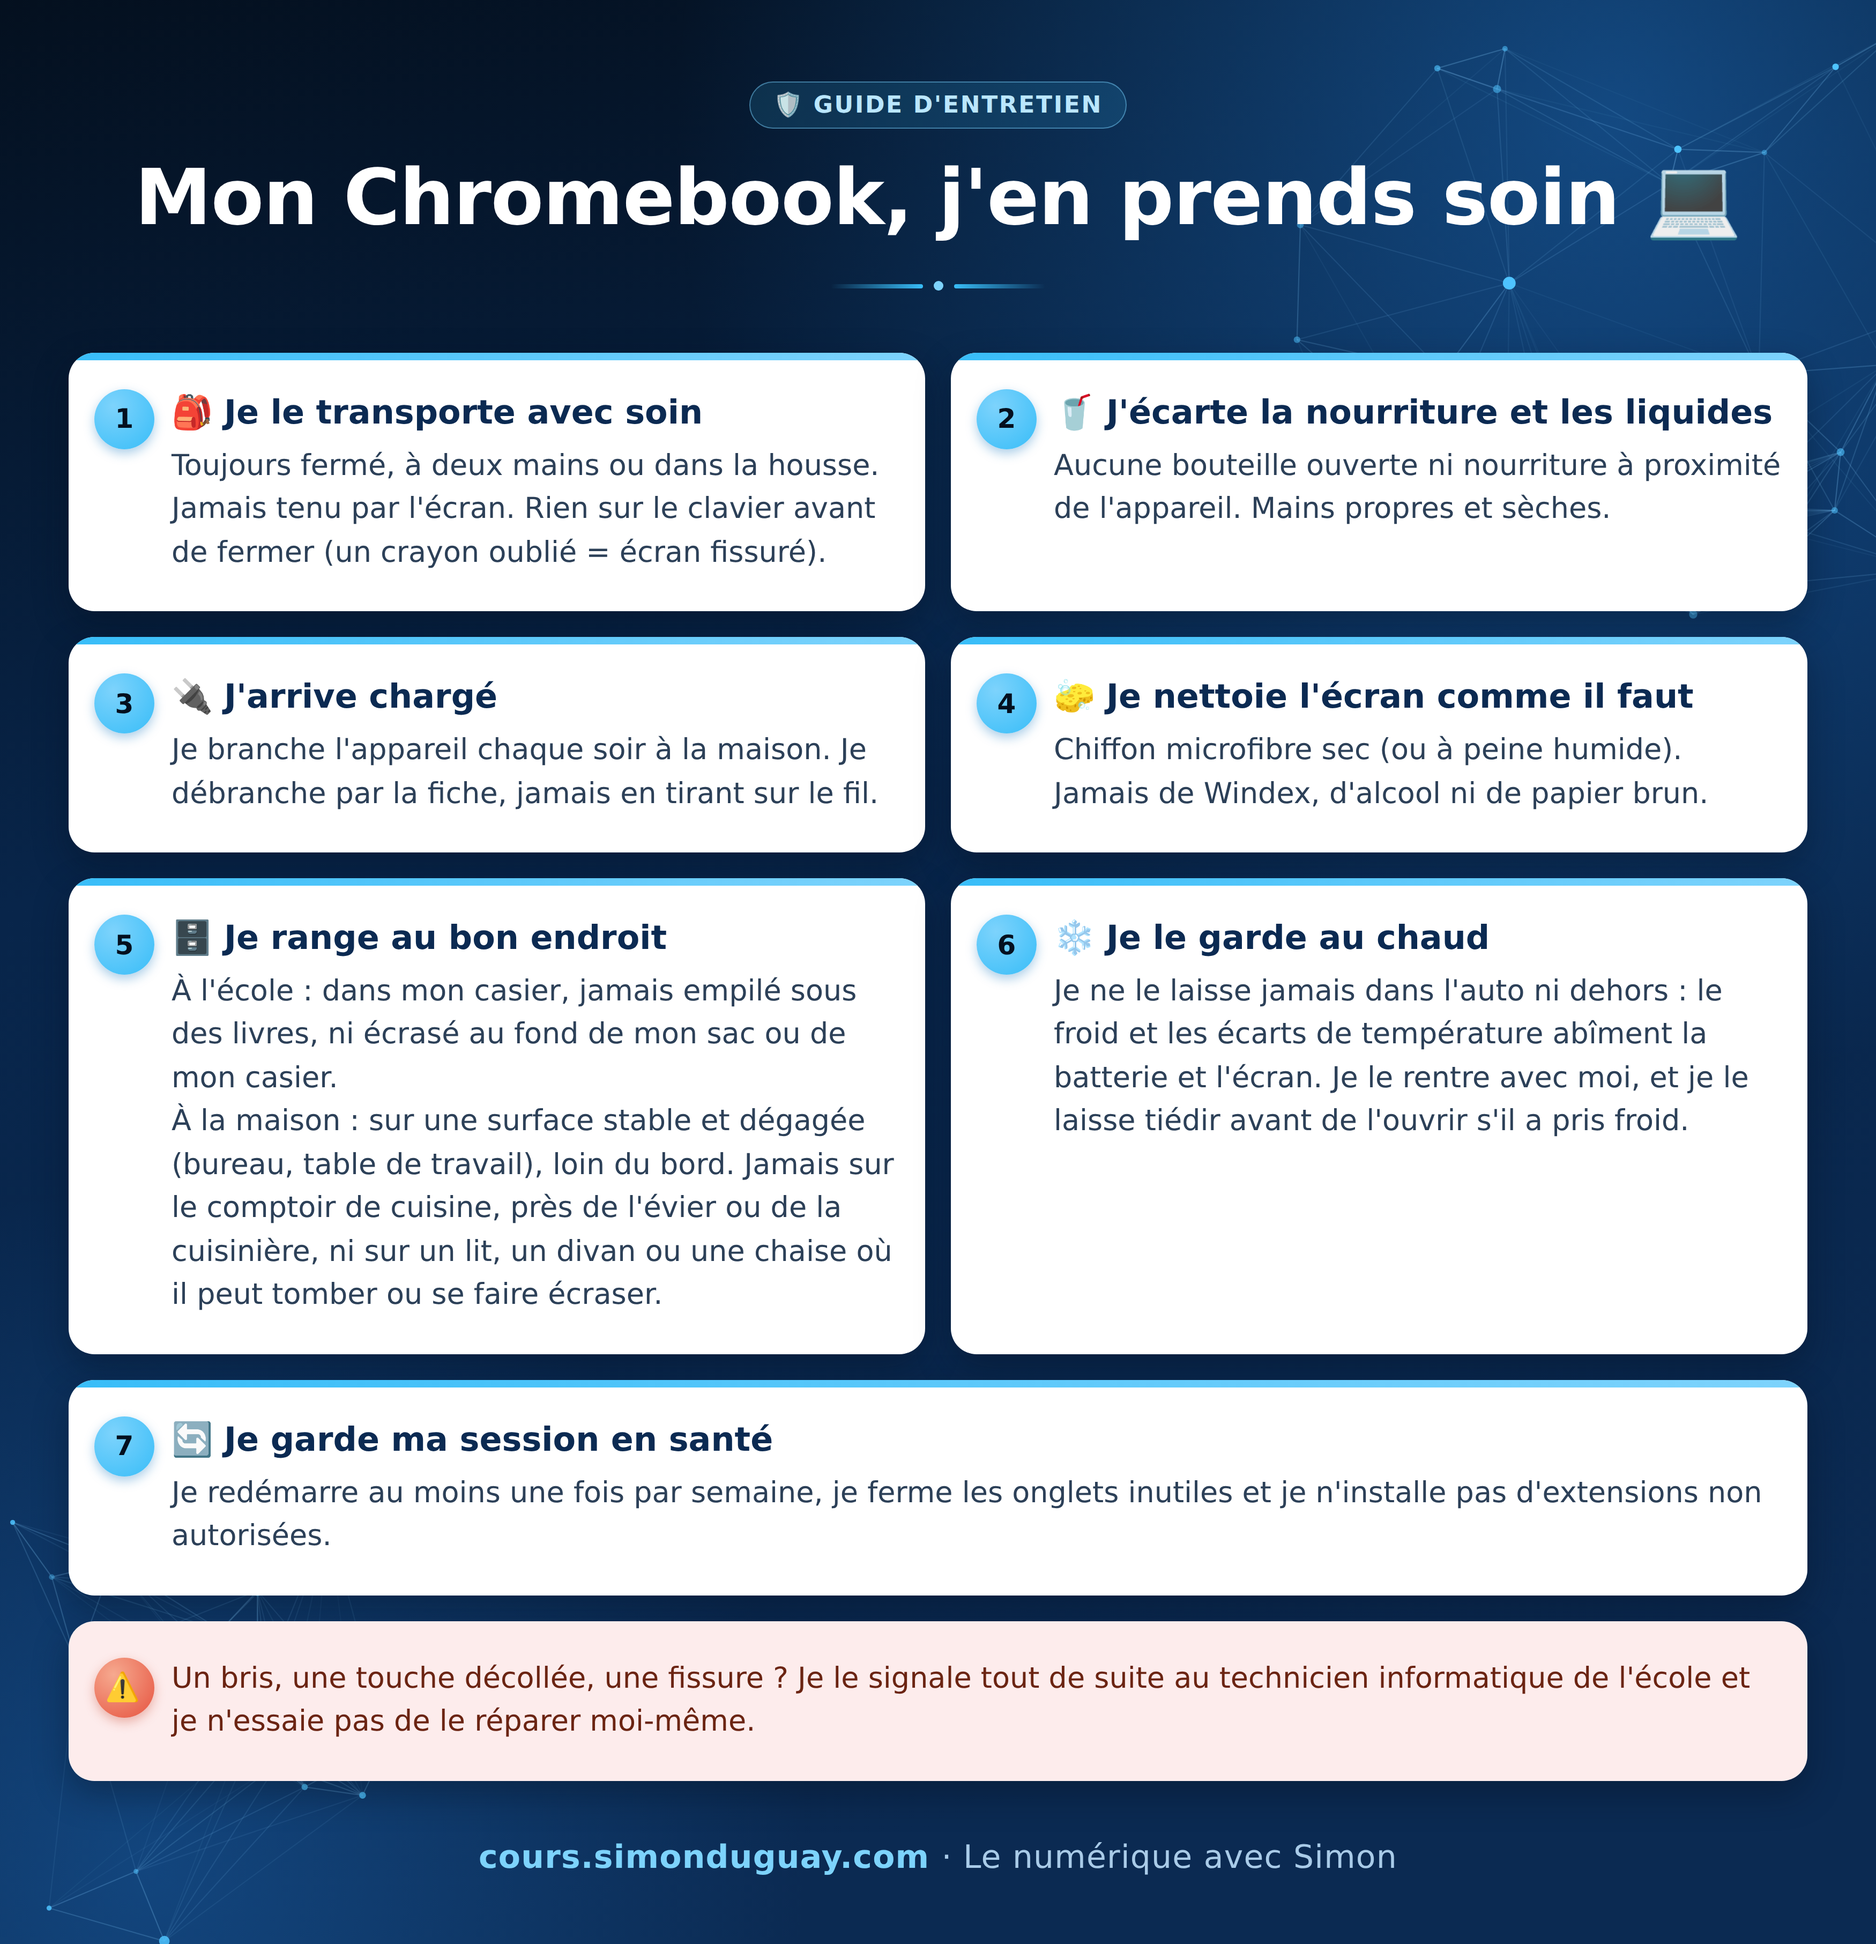
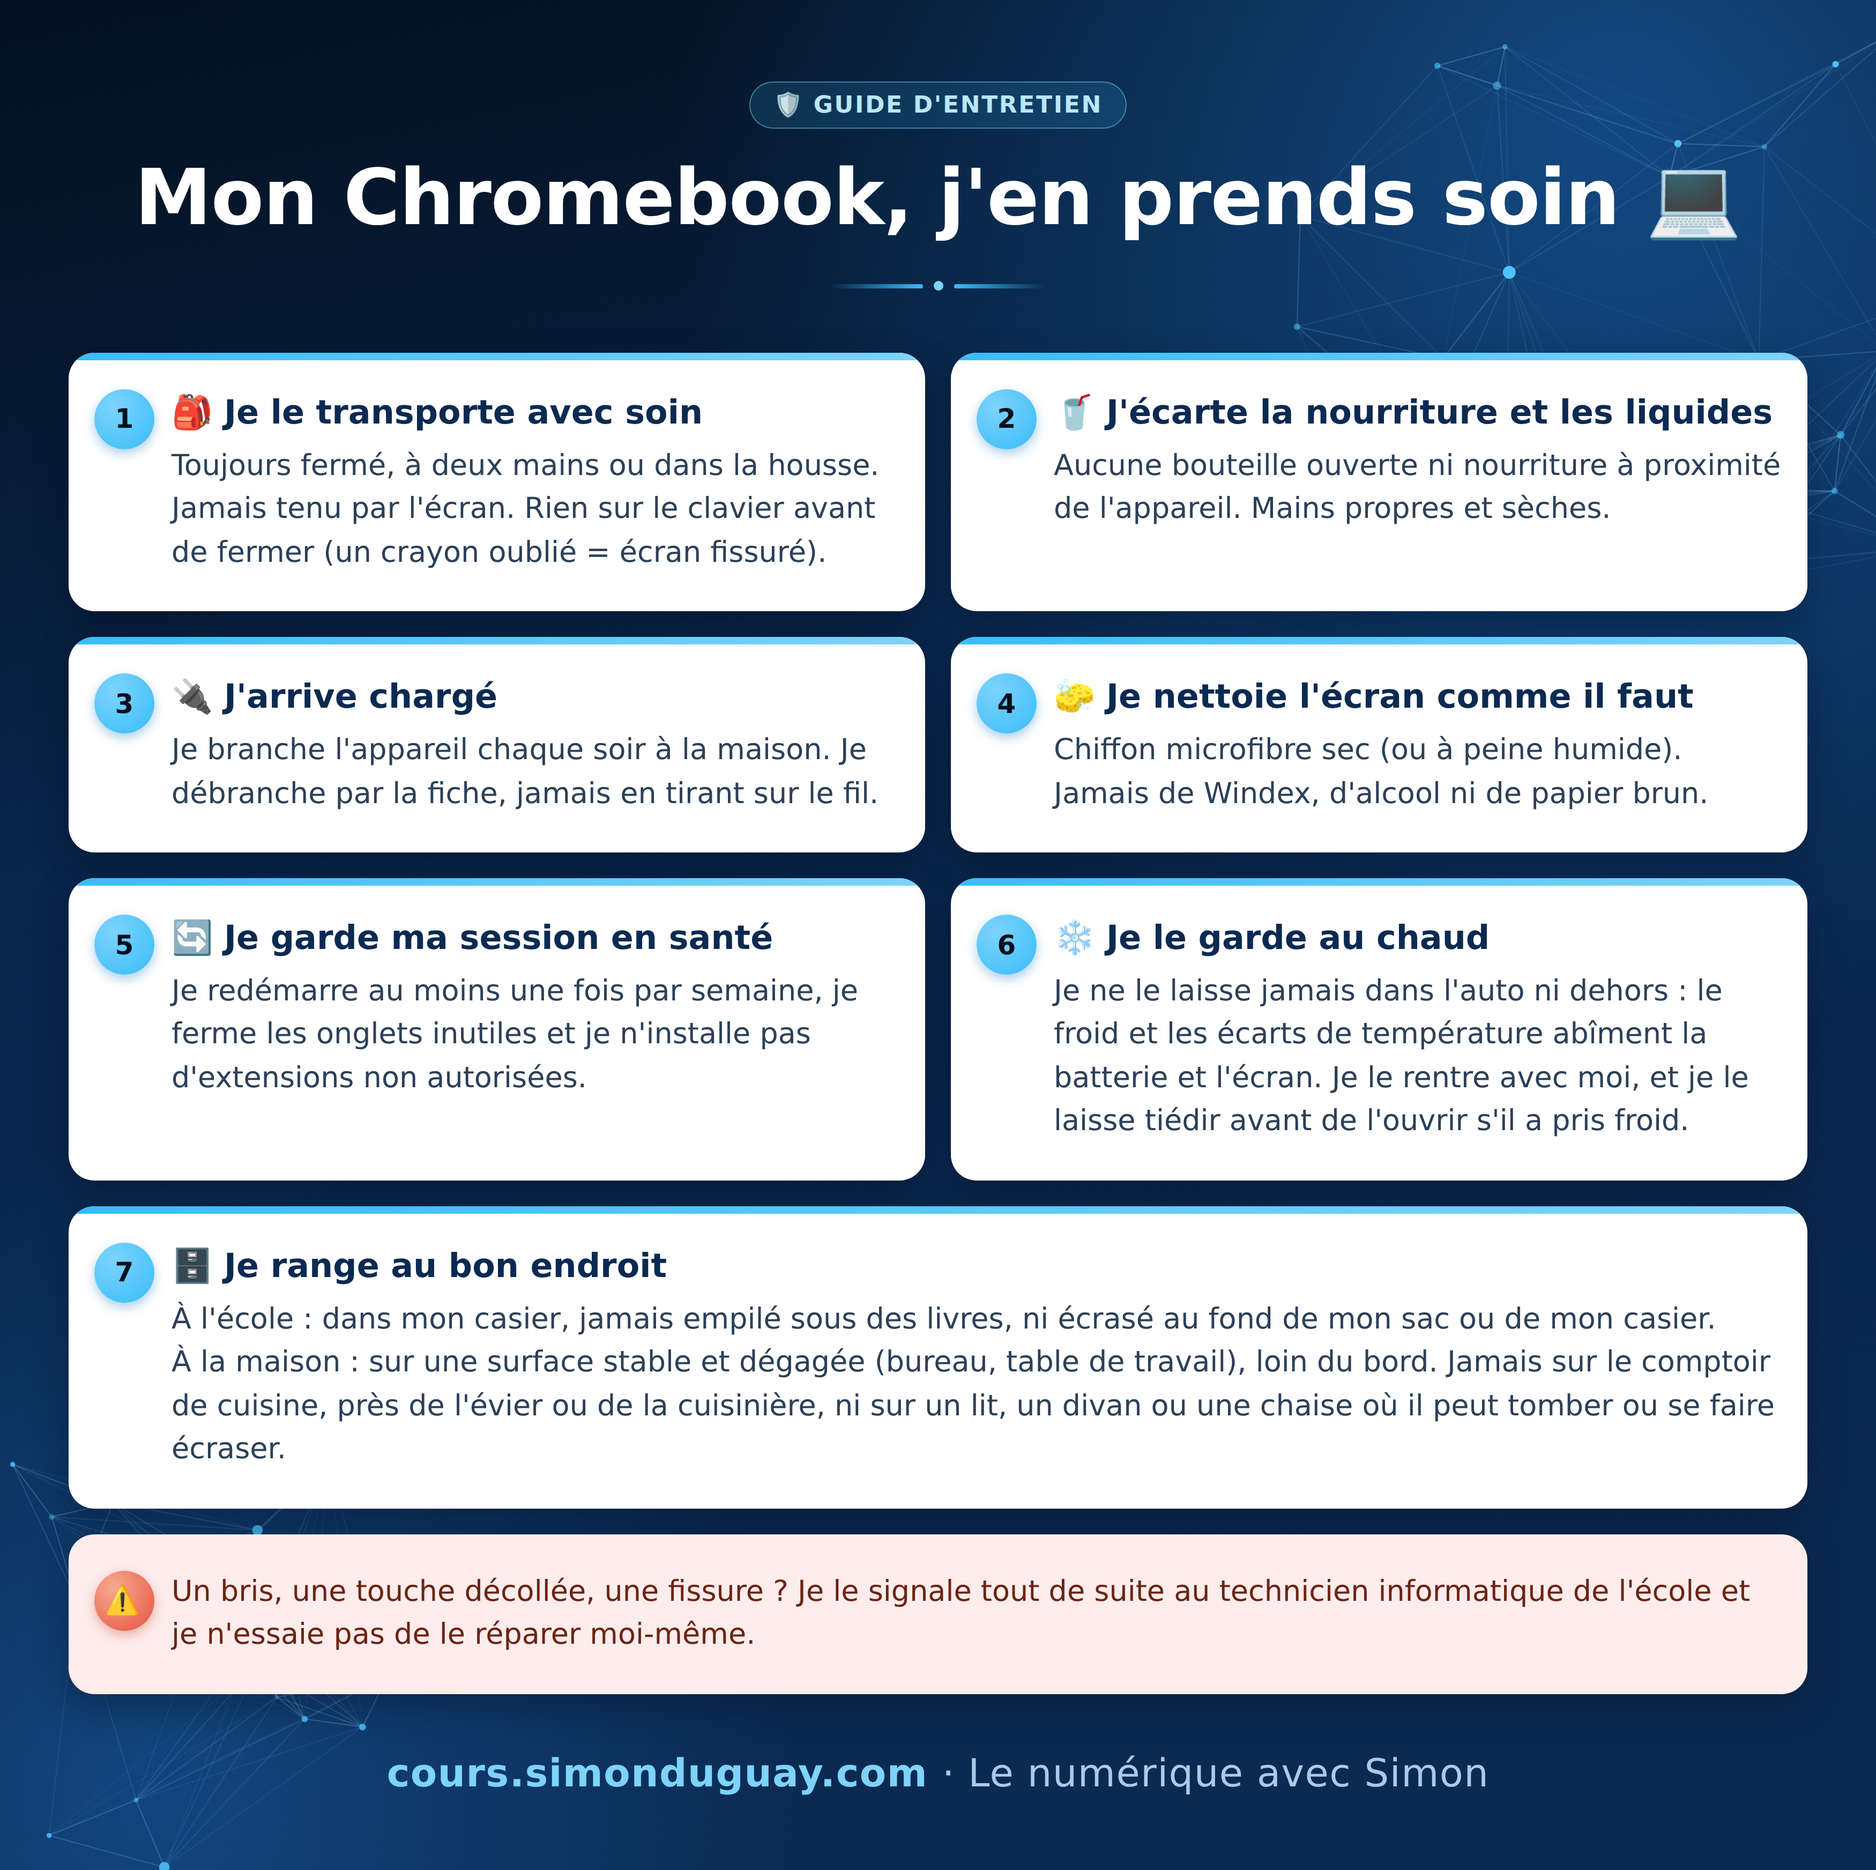
Échanger le contenu des réflexes 5 et 7 pour équilibrer l'affiche
« Je garde ma session en santé » devient le 5e réflexe (dans la grille,
à côté du 6e) et « Je range au bon endroit » devient le 7e (seul en
pleine largeur, car plus long) — la numérotation reste séquentielle et
les deux colonnes de la grille restent équilibrées. Le texte détaillé de
la page est mis à jour en conséquence. Le texte du pied de page de
l'affiche est aussi agrandi une fois de plus.

Claude-Session: https://claude.ai/code/session_01RPuVPdT2CuMZGwus3Y1Aop

Changed region(s): [[0.0311, 0.0312, 0.9654, 0.9688]]

diff --git a/src/content/tutoriels/mon-chromebook-jen-prends-soin.md b/src/content/tutoriels/mon-chromebook-jen-prends-soin.md
@@ -12,7 +12,7 @@ pour: ["Élèves"]
   <img
     src="/fichiers/infographie-chromebook.svg"
     width="1750"
-    height="1813"
+    height="1744"
     loading="lazy"
     alt="Affiche « Mon Chromebook, j'en prends soin » : les sept réflexes d'entretien — transport avec soin, éloigner nourriture et liquides, arriver chargé, nettoyer l'écran comme il faut, ranger au bon endroit, garder au chaud, garder sa session en santé — et la consigne de signaler tout bris au technicien informatique de l'école."
   />
@@ -41,7 +41,18 @@ jamais en tirant sur le fil.
 Chiffon microfibre sec (ou à peine humide). Jamais de Windex, d'alcool ni de
 papier brun.
 
-## 5. Je range au bon endroit
+## 5. Je garde ma session en santé
+
+Je redémarre au moins une fois par semaine, je ferme les onglets inutiles et
+je n'installe pas d'extensions non autorisées.
+
+## 6. Je le garde au chaud
+
+Je ne le laisse jamais dans l'auto ni dehors : le froid et les écarts de
+température abîment la batterie et l'écran. Je le rentre avec moi, et je le
+laisse tiédir avant de l'ouvrir s'il a pris froid.
+
+## 7. Je range au bon endroit
 
 À l'école : dans mon casier, jamais empilé sous des livres, ni écrasé au
 fond de mon sac ou de mon casier.
@@ -50,17 +61,6 @@ fond de mon sac ou de mon casier.
 loin du bord. Jamais sur le comptoir de cuisine, près de l'évier ou de la
 cuisinière, ni sur un lit, un divan ou une chaise où il peut tomber ou se
 faire écraser.
-
-## 6. Je le garde au chaud
-
-Je ne le laisse jamais dans l'auto ni dehors : le froid et les écarts de
-température abîment la batterie et l'écran. Je le rentre avec moi, et je le
-laisse tiédir avant de l'ouvrir s'il a pris froid.
-
-## 7. Je garde ma session en santé
-
-Je redémarre au moins une fois par semaine, je ferme les onglets inutiles et
-je n'installe pas d'extensions non autorisées.
 
 :::attention[En cas de bris]
 Un bris, une touche décollée, une fissure ? Je le signale tout de suite au
